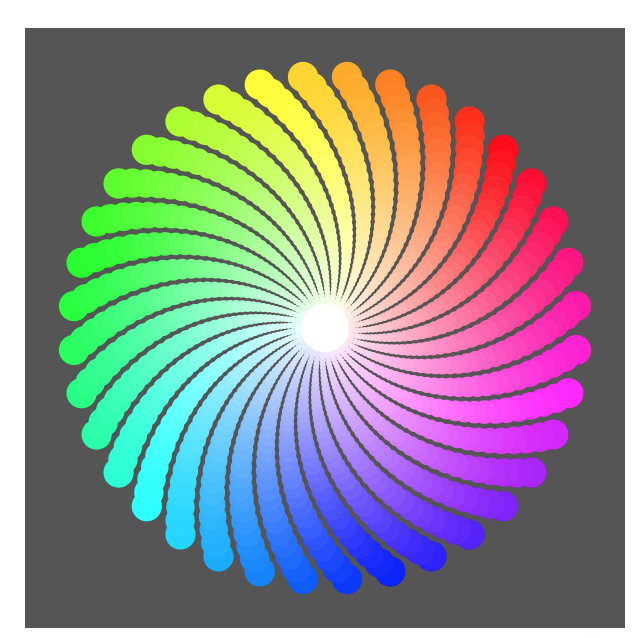
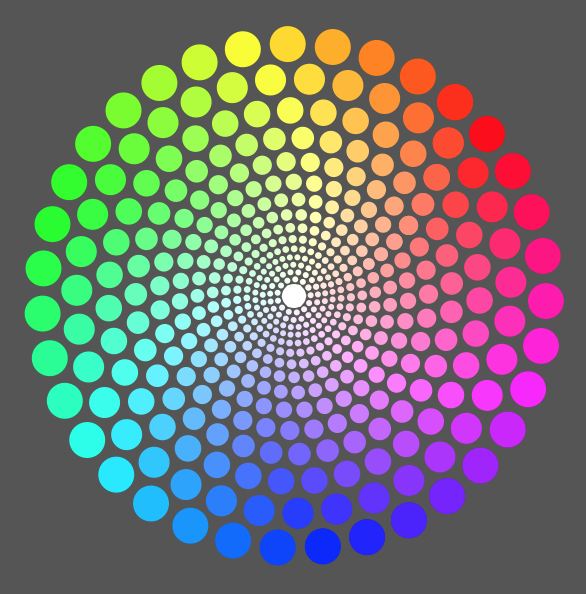
working circle "tesselation"

diff --git a/ColorWheel.playground/Contents.swift b/ColorWheel.playground/Contents.swift
@@ -26,6 +26,7 @@ class MyViewController : UIViewController, ColorWheelDelegate {
     }
     
     @objc func sliderChanged(sender: UISlider) {
+        print("slider: \(sender.value)")
         colorWheel.frame = CGRect(x: 50.0, y: 50.0,
                                   width: Double(300 * sender.value),
                                   height: Double(300 * sender.value))
@@ -75,7 +76,7 @@ public class ColorWheel: UIView {
         didSet { updateBrightness() }
     }
     
-    private var centerRadius: CGFloat = 8.0
+    private var centerRadius: CGFloat = 4.0
     private var minCircleRadius: CGFloat = 1.0
     private var maxCircleRadius: CGFloat = 6.0
     private var tapRecognizer: UITapGestureRecognizer!
@@ -94,42 +95,40 @@ public class ColorWheel: UIView {
     
     public override func draw(_ rect: CGRect) {
         guard let context = UIGraphicsGetCurrentContext() else { return }
-        let steps = arcSteps(in: rect)
         
         context.saveGState()
         
         let outerRadius = radius(in: rect)
-        var innerRadius = radius(in: rect)
+        var innerRadius = outerRadius
+        var oldRadius = radius(deg: 0, distance: 1)
         repeat {
             let innerPadding: CGFloat = 1
-            let distance = innerRadius / outerRadius//1 - sin(CGFloat(innerRadius / outerRadius) * .pi / 3)
+            let distance = innerRadius / outerRadius
             let currentRadius = radius(deg: 0, distance: distance)
             
-            print("distance: \(distance)")
-
+            let steps = arcSteps(circleRadius: currentRadius, on: innerRadius)
             steps.forEach { deg in
                 drawCircle(in: rect, of: context, deg: CGFloat(deg), distance: distance)
             }
             
-            innerRadius -= (currentRadius + innerPadding)
-        } while innerRadius > 0
+            innerRadius -= (oldRadius + 2 * currentRadius + innerPadding)
+            oldRadius = innerRadius
+            oldRadius = currentRadius
+        } while innerRadius > centerRadius
         
-//        (0...100).filter { $0 % 10 == 0 }.forEach { dist in
-//            steps.forEach { deg in
-//                let distance = 1 - sin(CGFloat(dist) / 100 * .pi / 3)
-//                drawCircle(in: rect, of: context, deg: CGFloat(deg), distance: distance)
-//            }
-//        }
         drawCircle(in: rect, of: context, deg: 0, distance: 0)
         context.restoreGState()
     }
     
-    private func arcSteps(in rect: CGRect) -> [Double] {
-//        let circumflex = 2 * .pi * radius(in: rect)
-        let stepsCount = max(1, Int(((1.0 - 0.00) * .pi / (asin(12 / radius(in: rect))) + 0.5)))
-//        let stepsCount: Int = Int(floor(circumflex / (3 * maxCircleRadius + 2)))
-        let stepSize = round(360.0 / Double(stepsCount))
-        return (0..<(stepsCount )).enumerated().map { Double($0.0) * stepSize }
+    private func arcSteps(circleRadius: CGFloat, on radius: CGFloat) -> [Double] {
+        let stepsCount = (2 * circleRadius) > radius ? 1 :
+            max(1, Int(((1.0 - 0.00) * .pi / (asin((2 * circleRadius) / radius)))))
+        let stepSize = 360.0 / Double(stepsCount - 1)
+        var steps = [Double]()
+        repeat {
+            steps.append((steps.last ?? 0) + stepSize)
+        } while steps.count < stepsCount
+        return steps
     }
     
     func updateBrightness() {
@@ -212,12 +211,12 @@ fileprivate extension ColorWheel {
     
     func radius(deg: CGFloat, distance: CGFloat) -> CGFloat {
         guard distance > 0 else { return centerRadius }
-        return max(minCircleRadius, maxCircleRadius * sin(distance))
+        return max(minCircleRadius, maxCircleRadius * distance)
     }
     
     func position(in rect: CGRect, deg: CGFloat, distance: CGFloat, circleRadius: CGFloat) -> CGPoint {
         let center = CGPoint(x: rect.size.width / 2, y: rect.size.height / 2)
-        let rad = (deg + distance * 45) / 180 * .pi
+        let rad = (deg + 40 * distance) / 180 * .pi
         let x = center.x + (radius - padding) * distance * cos(-rad)
         let y = center.y + (radius - padding) * distance * sin(-rad)
         return CGPoint(x: x, y: y)
